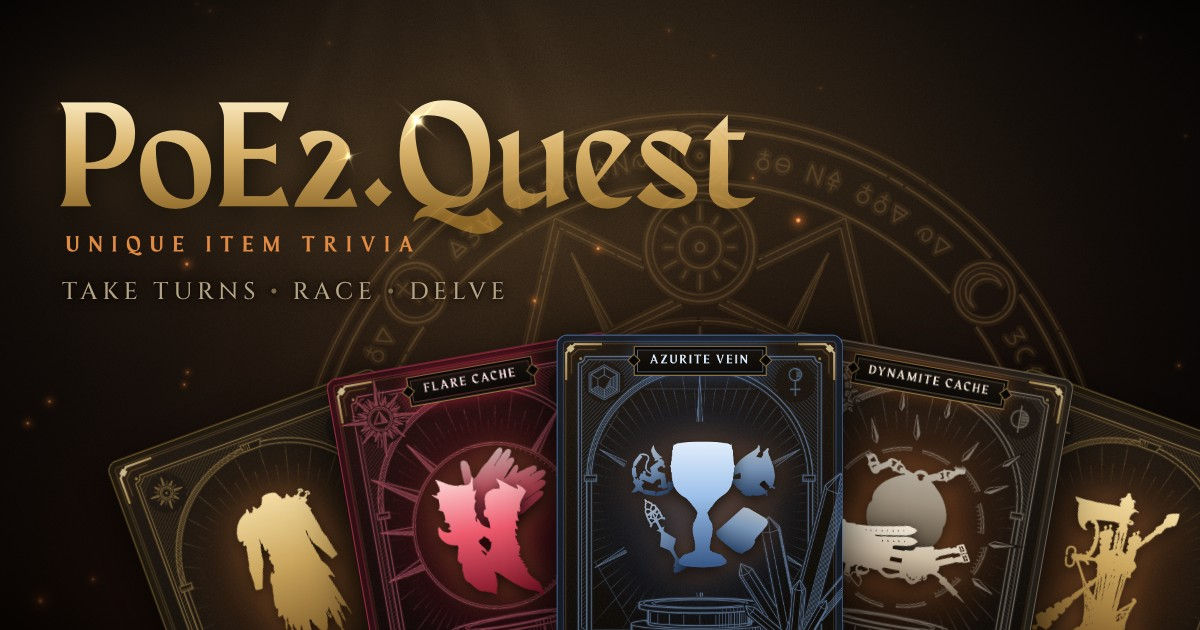
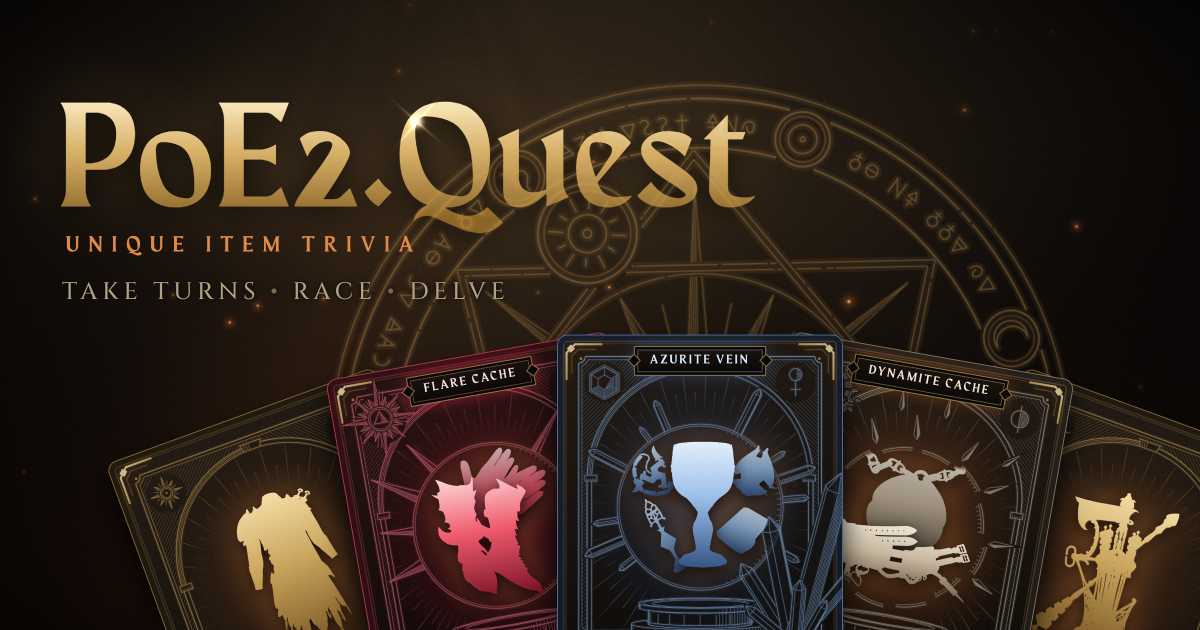
Share image: the Azurite Vein card's new crystal crown, dithered throughout
The fan of cards captured again from the lab, so the middle card shows
the Azurite Vein's current design. The start page's backdrop and title,
the arcane circle and each card captured on their own; the cards' drop
shadows and the modes line's glow drawn in float at 2x, halved and
dithered once, then saved at JPEG quality 97 with full-resolution colour
so the dither survives (find-banding: 5.73% before, 0.19% now). ?v=6 so
link previews drop their cached copy.

Claude-Session: https://claude.ai/code/session_01955pxARrfqjViq9My5kaye

diff --git a/index.html b/index.html
@@ -16,7 +16,7 @@
     <meta property="og:title" content="PoE2.Quest • Unique Item Trivia" />
     <meta property="og:description" content="Name the unique. Path of Exile 2 item trivia, alone or with up to eleven friends: take turns, race or delve, and a new unique every day. Free, by zoe_arcana." />
     <!-- Bump ?v= whenever og.jpg changes, so link previews drop their cached copy. -->
-    <meta property="og:image" content="https://poe2.quest/og.jpg?v=5" />
+    <meta property="og:image" content="https://poe2.quest/og.jpg?v=6" />
     <meta property="og:image:type" content="image/jpeg" />
     <meta property="og:image:width" content="1200" />
     <meta property="og:image:height" content="630" />
@@ -24,7 +24,7 @@
     <meta name="twitter:card" content="summary_large_image" />
     <meta name="twitter:title" content="PoE2.Quest • Unique Item Trivia" />
     <meta name="twitter:description" content="Name the unique. Path of Exile 2 item trivia, alone or with up to eleven friends." />
-    <meta name="twitter:image" content="https://poe2.quest/og.jpg?v=5" />
+    <meta name="twitter:image" content="https://poe2.quest/og.jpg?v=6" />
     <meta name="twitter:image:alt" content="PoE2.Quest • Unique Item Trivia • Take turns, race, delve: a fanned hand of category cards with the Flare Cache, Azurite Vein and Dynamite Cache finds" />
     <title>PoE2.Quest • Unique Item Trivia</title>
   </head>
